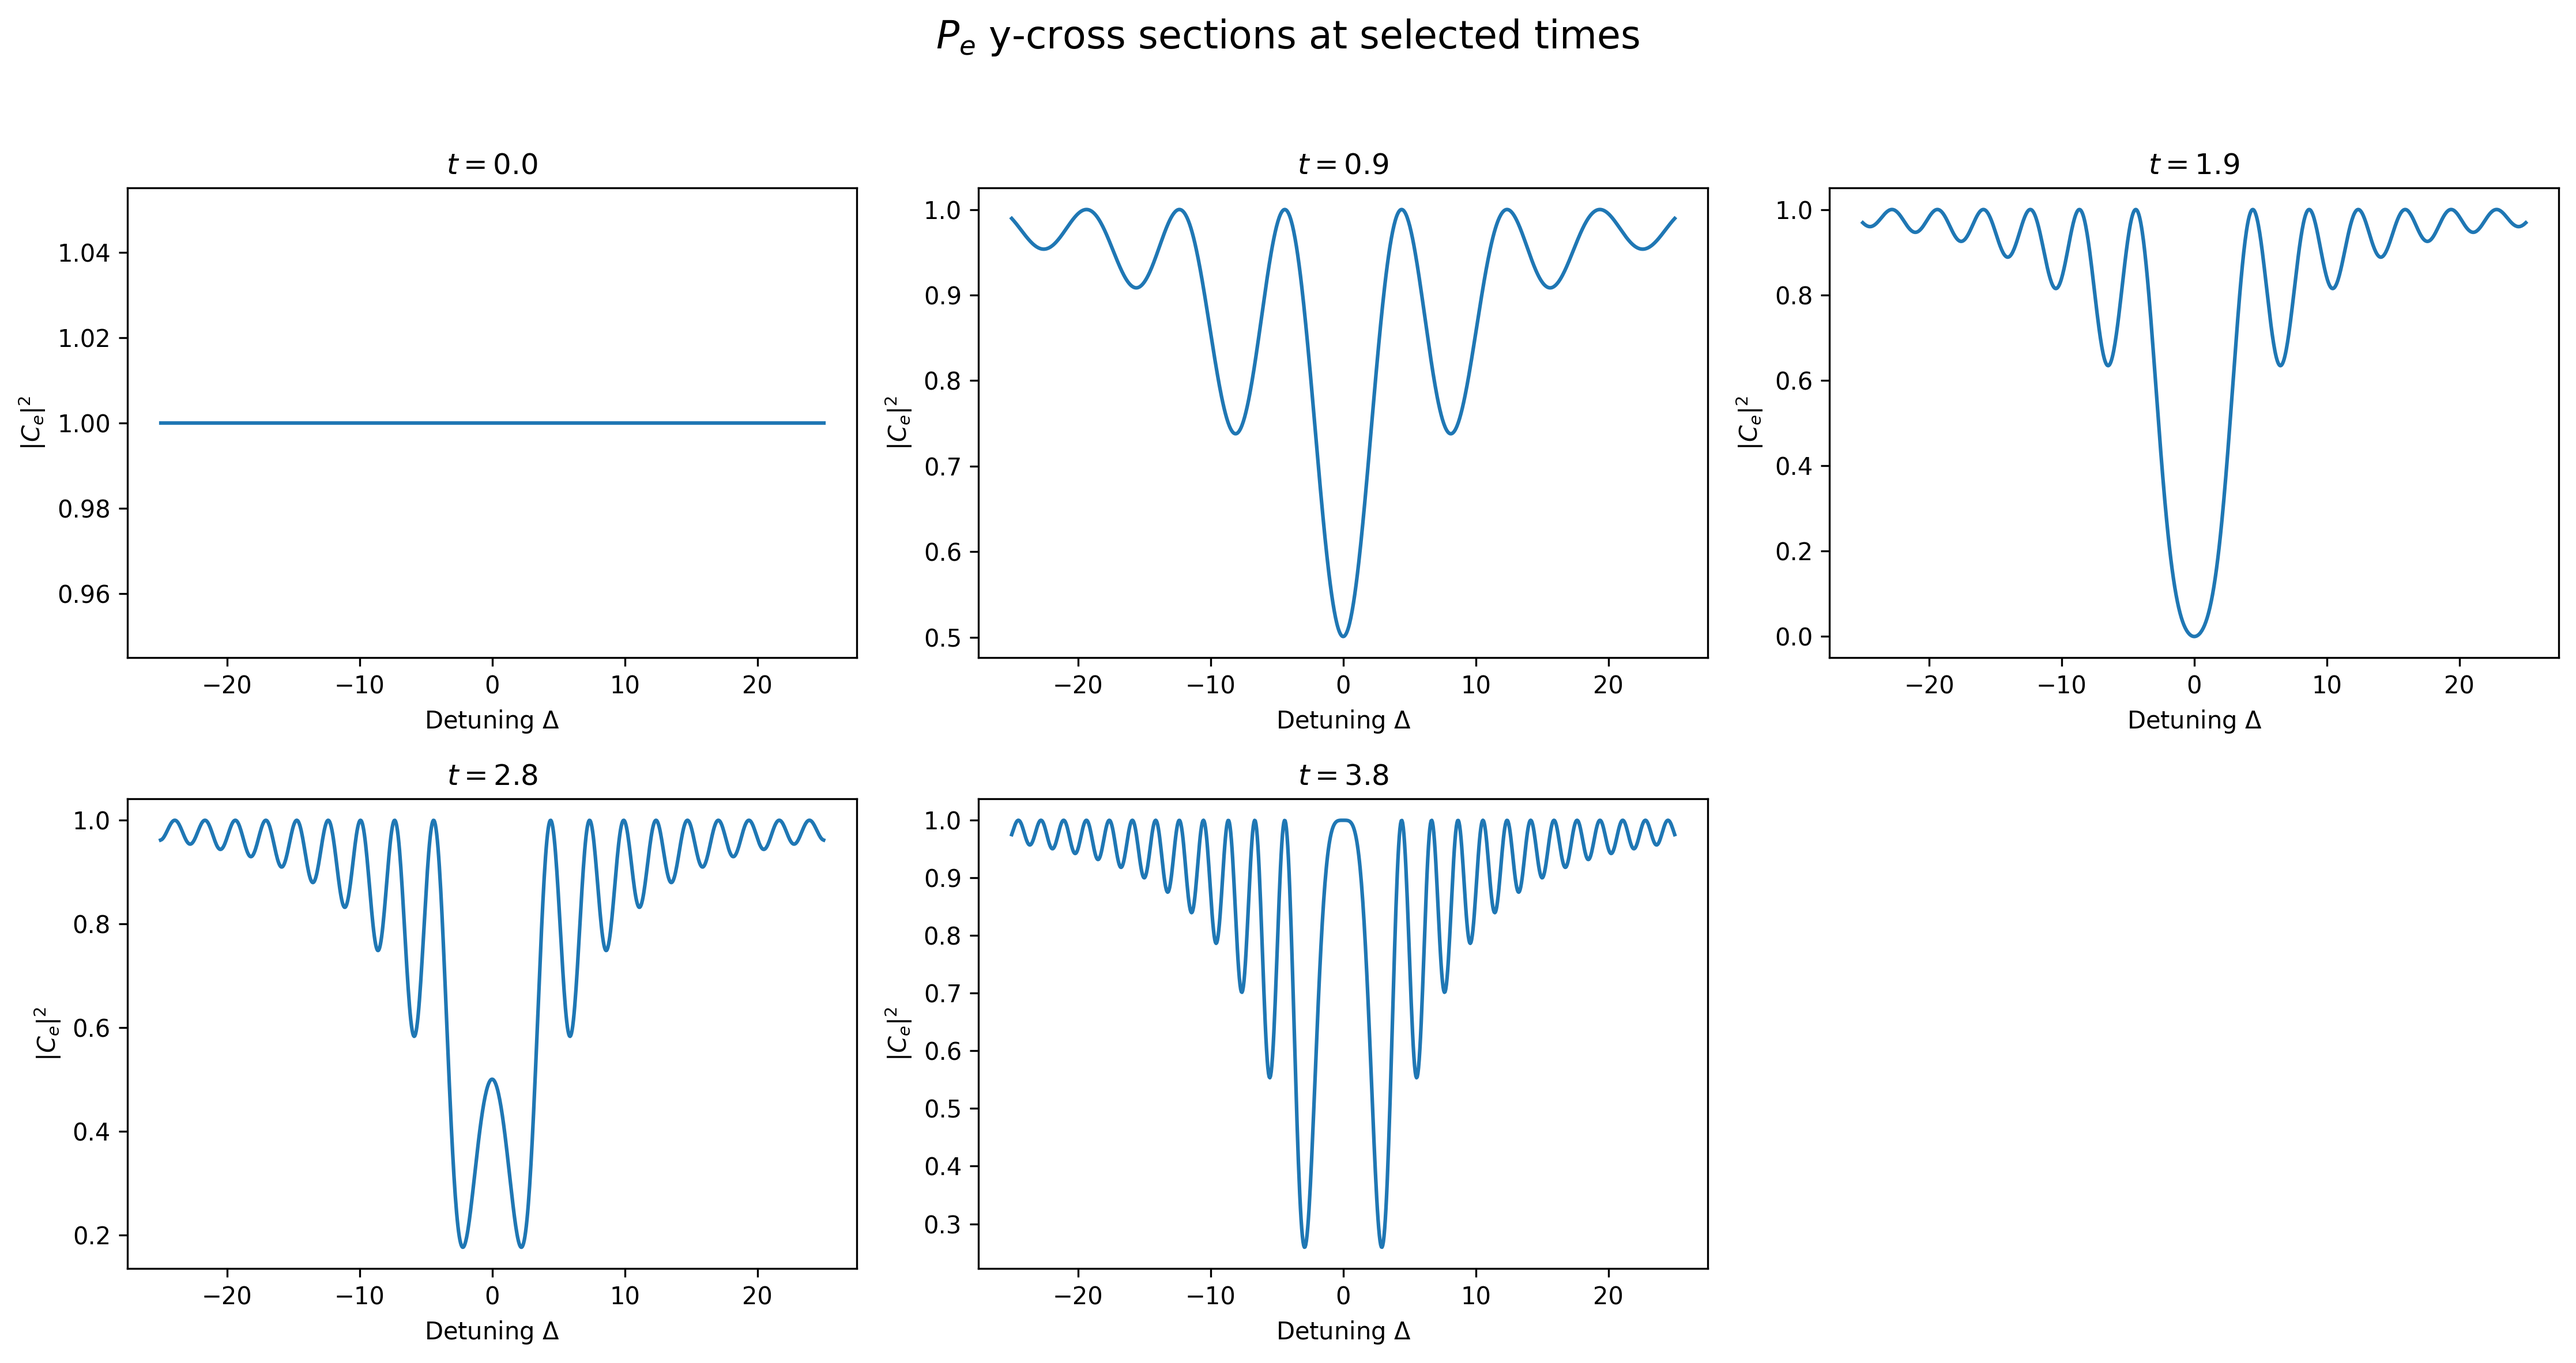
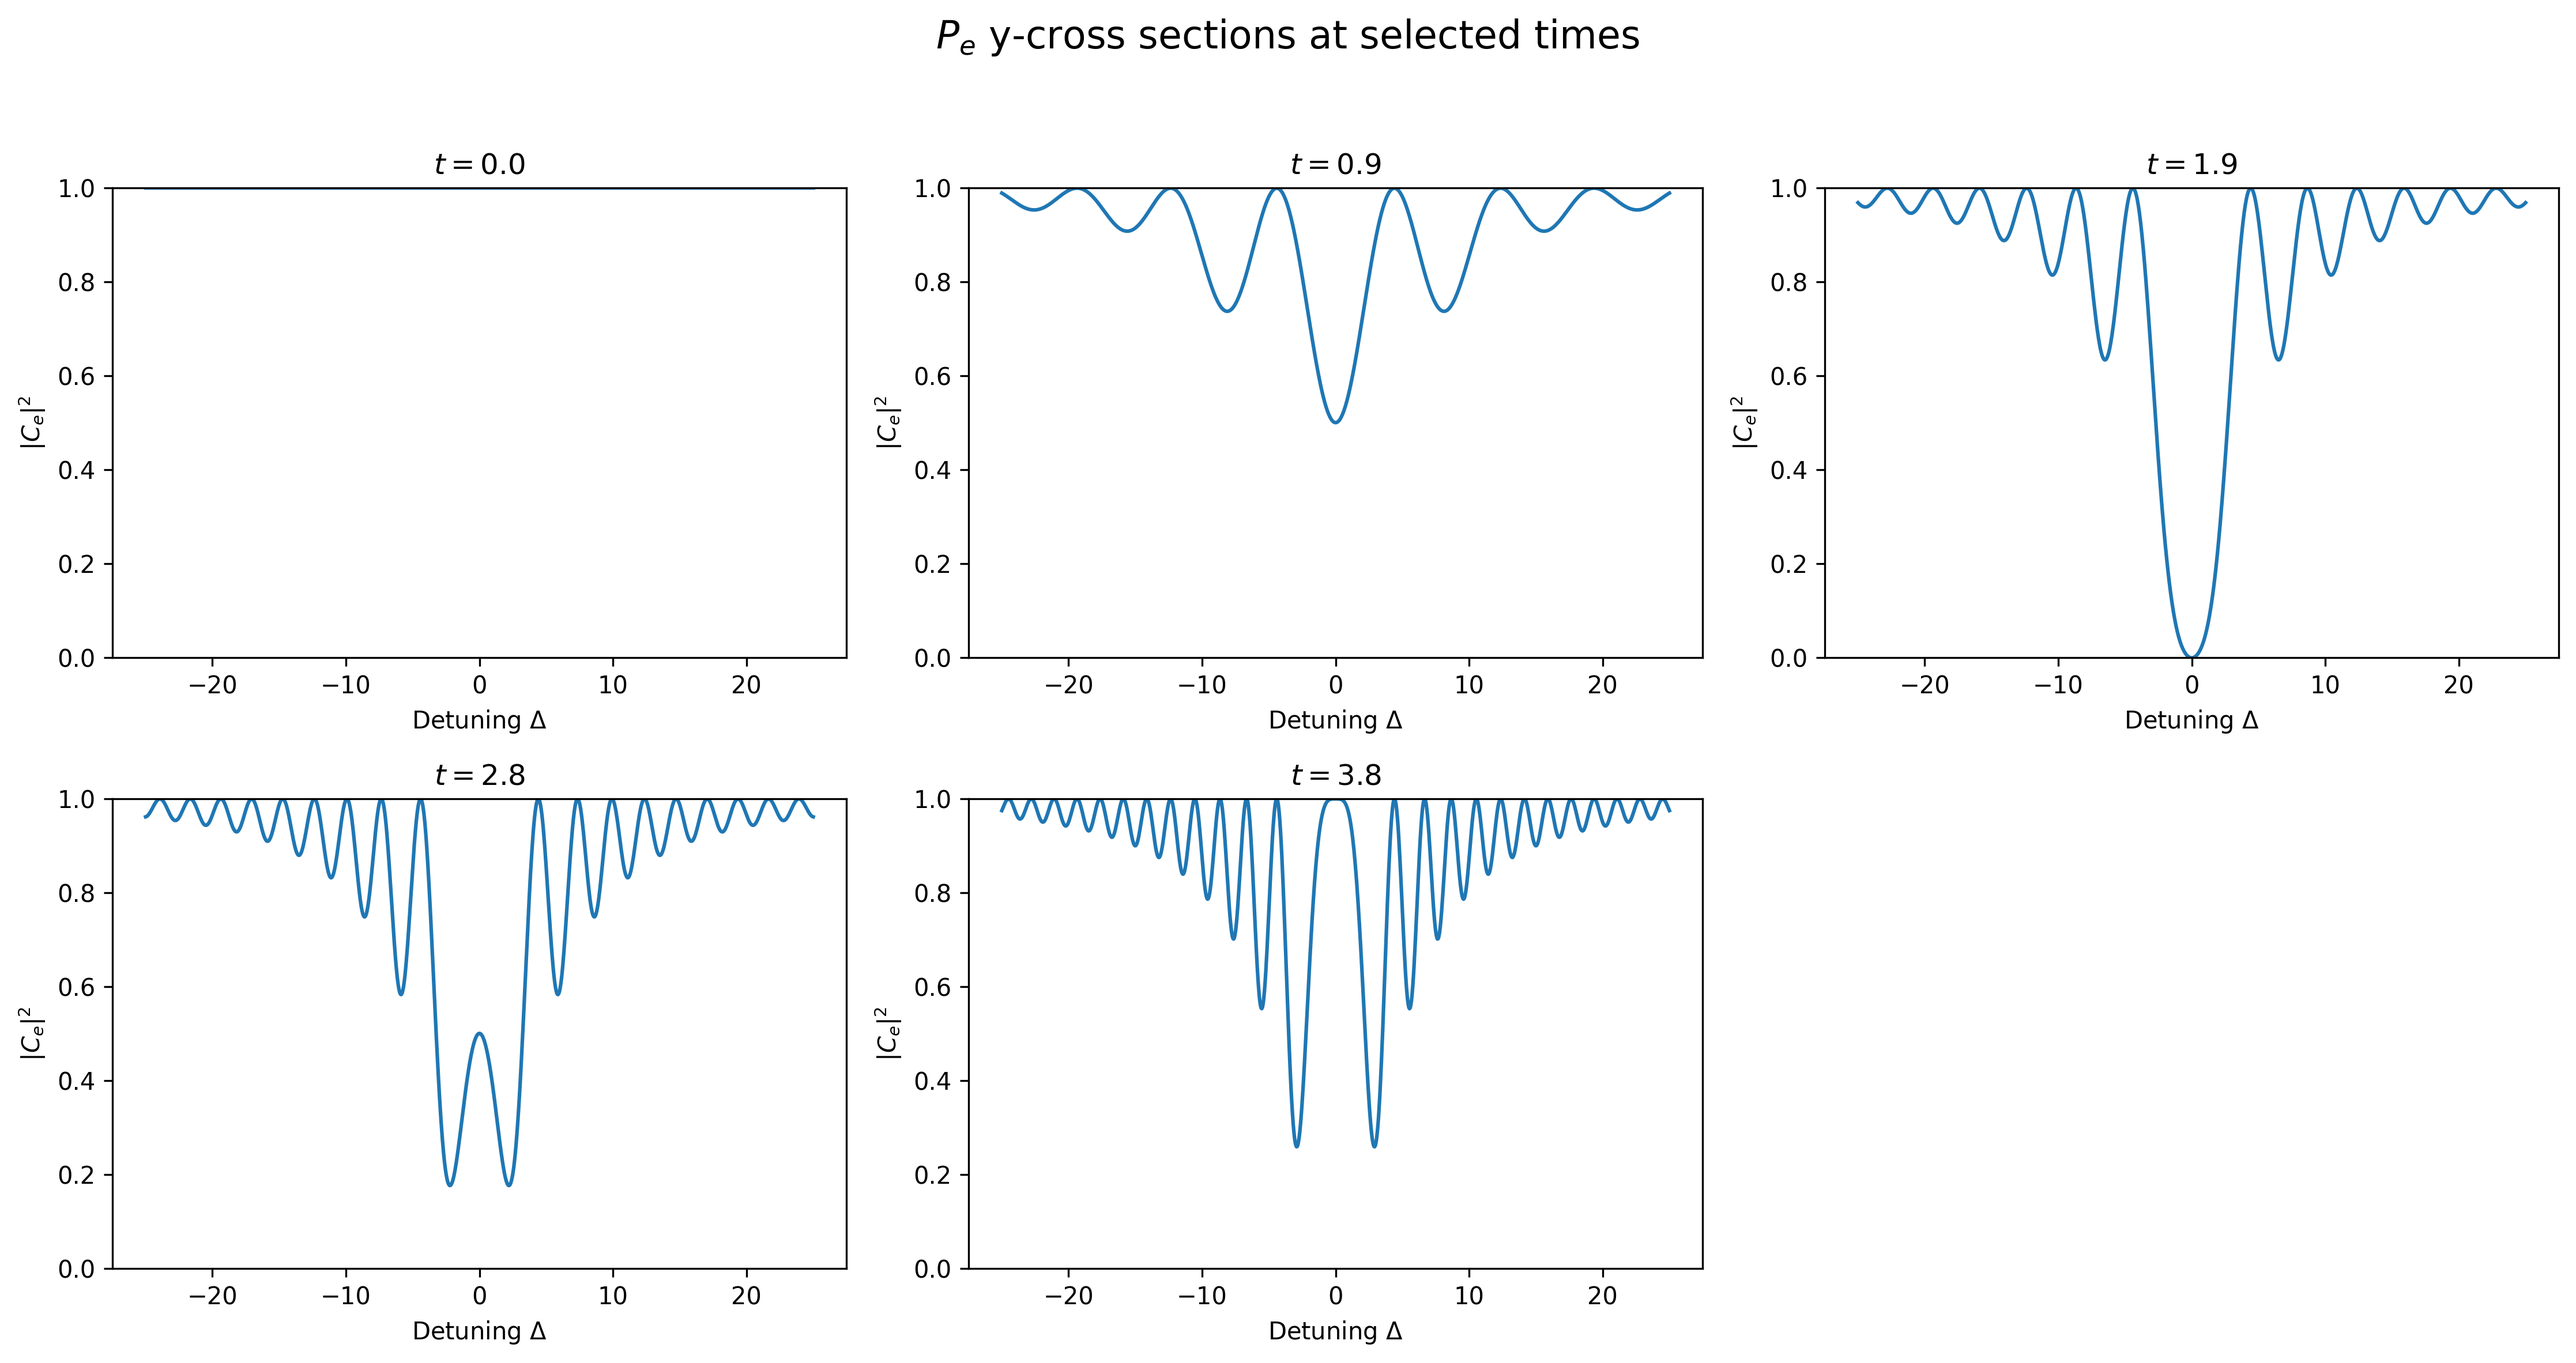
final

diff --git a/Light_Matter_Interaction_Numeric_assignment.py b/Light_Matter_Interaction_Numeric_assignment.py
@@ -96,14 +96,6 @@ for i, delta in enumerate(delta_cases):
     avg_norm_m = np.mean(norm_m)
     error_m = np.max(np.abs(norm_m - 1))
 
-    # # norm check, and err evaluation
-    # print("----------------------------")
-    # print(f"Delta = {delta}")
-    # print("Average normalization:")
-    # print("by numpy: ", np.mean(norm_np), " manually: ", np.mean(norm_m))
-    # print("Maximum normalization error:")
-    # print("by numpy: ", np.max(np.abs(norm_np - 1)), " manually: ", np.max(np.abs(norm_m - 1)))
-    # print("----------------------------")
 
     # plot graphs
     Cg_color, Ce_color = colors[i]
@@ -207,6 +199,7 @@ for ax, delta_target in zip(axes, selected_deltas):
     ax.set_title(rf"$\Delta={delta_values[index]:.1f}$")
     ax.set_xlabel("Time")
     ax.set_ylabel(r"$P_e$")
+    ax.set_ylim(0, 1)
 
 # if subplot empty
 for ax in axes[len(selected_deltas):]:
@@ -234,6 +227,7 @@ for ax, t_target in zip(axes, selected_times):
     ax.set_title(rf"$t={t_eval[index]:.1f}$")
     ax.set_xlabel(r"Detuning $\Delta$")
     ax.set_ylabel(r"$|C_e|^2$")
+    ax.set_ylim(0, 1)
 
 # if subplot empty
 for ax in axes[len(selected_deltas):]:
@@ -706,6 +700,7 @@ Omega23_cases = [5.0, 5.0, 5.0, 5.0]
 Delta0_cases = [10 * Omega12_cases[1], 10 * Omega12_cases[1], 20 * Omega12_cases[1], 20 * Omega12_cases[1]]
 delta0_cases = [0.0, 0.0, 0.0, 0.0]
 
+Omega_eff1 = (Omega12_cases[-1] * Omega23_cases[-1]) / Delta0_cases[-1]
 
 # Plot def
 fig, axes = plt.subplots(2, 2, figsize=(13, 9))
@@ -719,7 +714,7 @@ for i in range(len(Omega12_cases)):
 
     Omega_eff = Omega12_0 * Omega23_0 / Delta0
     # Time 
-    t_span = (0, (3*pi/Omega_eff))
+    t_span = (0, (3*pi/Omega_eff1))
     t_eval = np.linspace(t_span[0], t_span[1], 3000)    
 
      # Delta(t), delta(t), Omega12(t), Omega23(t) are all const
@@ -862,7 +857,177 @@ plt.tight_layout(rect=[0, 0.06, 1, 0.95])
 plt.savefig("Three_level_AE_Heff.png", dpi=300, bbox_inches="tight")
 plt.show()
 
+# -------------------------------------------------- #
+# Compare full 3-level H with effective H_eff
+# Adiabatic Elimination
+# -------------------------------------------------- #
 
+Omega12_0 = 5.0
+Omega23_0 = 5.0
+
+Delta_cases = [10 * Omega12_0, 20 * Omega12_0]   # 50, 100
+delta0 = 0.0
+
+# Initial states
+initial_state_full = np.array([1.0, 0.0, 0.0], dtype=complex)
+initial_state_eff  = np.array([1.0, 0.0], dtype=complex)
+
+# Colors
+full_colors = {
+    "P1": "purple",
+    "P2": "navy",
+    "P3": "darkorange"
+}
+
+eff_colors = {
+    "P1": "mediumorchid",
+    "P3": "orange"
+}
+
+fig, axes = plt.subplots(1, 2, figsize=(14, 5))
+axes = axes.flatten()
+
+for i, Delta0 in enumerate(Delta_cases):
+
+    # ---------------------------------- #
+    # Effective parameters
+    # ---------------------------------- #
+    Omega_eff = (Omega12_0 * Omega23_0) / Delta0
+    Delta_eff = (Omega12_0**2) / Delta0
+
+    # Same time axis for both solutions
+    t_span = (0, 3 * np.pi / Omega_eff)
+    t_eval = np.linspace(t_span[0], t_span[1], 3000)
+
+    # ---------------------------------- #
+    # Full 3-level Hamiltonian
+    # ---------------------------------- #
+    Omega12 = lambda t, Omega12_0=Omega12_0: Omega12_0
+    Omega23 = lambda t, Omega23_0=Omega23_0: Omega23_0
+    Delta = lambda t, Delta0=Delta0: Delta0
+    delta = lambda t, delta0=delta0: delta0
+
+    sol_full = solve_ivp(
+        schrodinger_3_level,
+        t_span,
+        initial_state_full,
+        args=(Delta, delta, Omega12, Omega23),
+        t_eval=t_eval,
+        rtol=1e-9,
+        atol=1e-11
+    )
+
+    C1_full = sol_full.y[0]
+    C2_full = sol_full.y[1]
+    C3_full = sol_full.y[2]
+
+    P1_full = np.abs(C1_full)**2
+    P2_full = np.abs(C2_full)**2
+    P3_full = np.abs(C3_full)**2
+
+    # ---------------------------------- #
+    # Effective 2-level Hamiltonian
+    # ---------------------------------- #
+    sol_eff = solve_ivp(
+        schrodinger_Heff,
+        t_span,
+        initial_state_eff,
+        args=(Delta_eff, Omega_eff),
+        t_eval=t_eval,
+        rtol=1e-9,
+        atol=1e-11
+    )
+
+    C1_eff = sol_eff.y[0]
+    C3_eff = sol_eff.y[1]
+
+    P1_eff = np.abs(C1_eff)**2
+    P3_eff = np.abs(C3_eff)**2
+
+    # ---------------------------------- #
+    # Plot comparison
+    # ---------------------------------- #
+    ax = axes[i]
+
+    # Full H - solid lines
+    ax.plot(
+        t_eval,
+        P1_full,
+        color=full_colors["P1"],
+        linewidth=2.2,
+        label=r"$P_1$ full $H$"
+    )
+
+    ax.plot(
+        t_eval,
+        P2_full,
+        color=full_colors["P2"],
+        linewidth=1.4,
+        alpha=0.8,
+        label=r"$P_2$ full $H$"
+    )
+
+    ax.plot(
+        t_eval,
+        P3_full,
+        color=full_colors["P3"],
+        linewidth=2.2,
+        label=r"$P_3$ full $H$"
+    )
+
+    # H_eff - dashed lines with lighter shades
+    ax.plot(
+        t_eval,
+        P1_eff,
+        linestyle=(0, (5, 3)),
+        color=eff_colors["P1"],
+        linewidth=2.4,
+        label=r"$P_1$ $H_{\rm eff}$"
+    )
+
+    ax.plot(
+        t_eval,
+        P3_eff,
+        linestyle=(0, (5, 3)),
+        color=eff_colors["P3"],
+        linewidth=2.4,
+        label=r"$P_3$ $H_{\rm eff}$"
+    )
+
+    # Axes
+    ax.set_xlabel("Time")
+    ax.set_ylabel("Population")
+    ax.set_ylim(-0.05, 1.05)
+
+    ax.grid(alpha=0.3)
+    ax.legend(fontsize=9, loc="upper right")
+
+    # Title
+    ax.set_title(
+        rf"$\Omega_{{12}}=\Omega_{{23}}={Omega12_0}$"
+        "\n"
+        rf"$\Delta={Delta0},\ \delta=0$"
+        "\n"
+        rf"$\Omega_{{eff}}={Omega_eff:.3f}$"
+    )
+
+fig.suptitle(
+    r"Adiabatic Elimination: full $H$ vs. $H_{\rm eff}$"
+    "\n"
+    r"$C(0)=(1,0,0)$",
+    fontsize=17,
+    y=0.98
+)
+
+plt.tight_layout(rect=[0, 0, 1, 0.90])
+
+plt.savefig(
+    "AE_full_H_vs_Heff.png",
+    dpi=300,
+    bbox_inches="tight"
+)
+
+plt.show()
 
 # ------------------------------------------------------------- #
 # 2.f. - 2.g. 3 level EIT (Electromagnetic Induced Tansparency)
